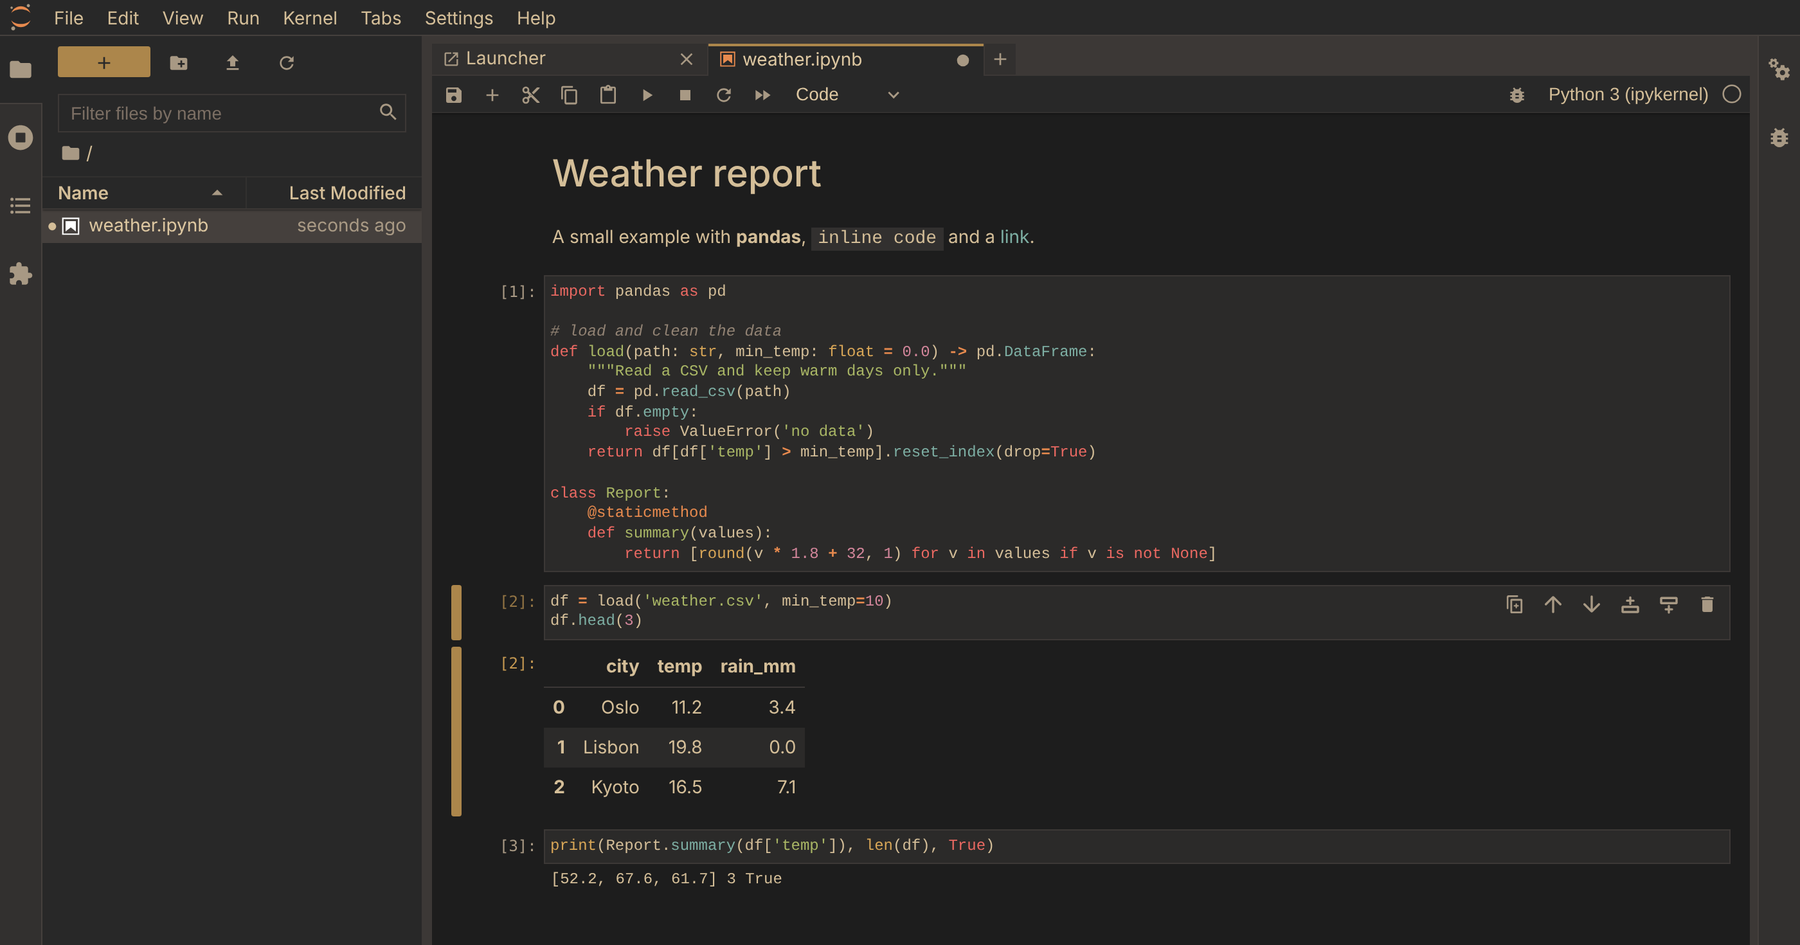
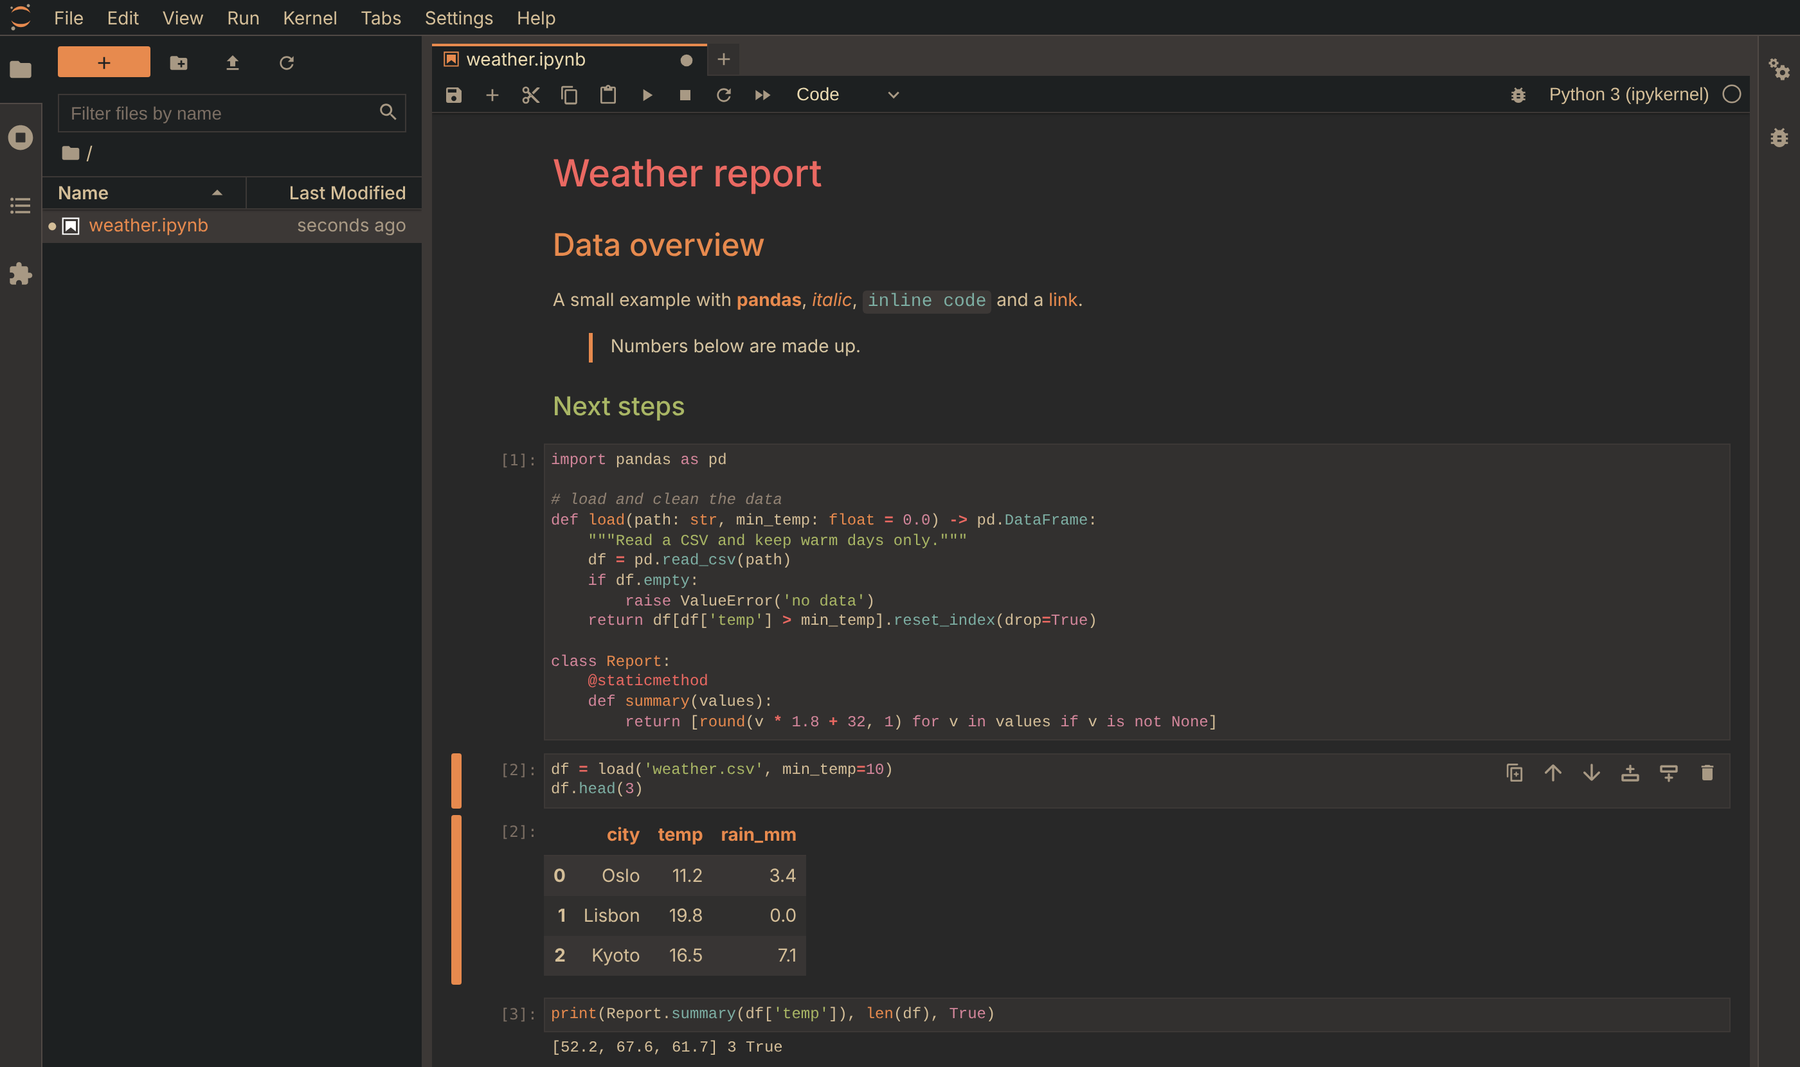
Restyle colors after the Material Gruvbox look (v1.1.0)
- Orange accent for active cell, tabs, buttons and links
- Colored markdown headings (red, orange, green, aqua, blue, purple)
- Orange bold/italic, blue inline code, orange quote bar
- Notebook on #282828 with darker #1d2021 side panels
- Syntax: purple keywords and numbers, orange functions, green strings,
  red operators, blue properties
- Red-tinted text selection, striped tables
- New screenshot

diff --git a/style/material.css b/style/material.css
@@ -1,6 +1,7 @@
 
 /*-----------------------------------------------------------------------------
-| Gruvbox Material colors (dark, medium) — softer contrast, muted accents.
+| Gruvbox Material colors (dark) — palette and accents in the spirit of
+| the Material Gruvbox look: orange accent, colored headings, dark side panels.
 |----------------------------------------------------------------------------*/
 :root {
   --gd-red2: #ea6962;
@@ -35,80 +36,122 @@
   --gd-gray: #a89984;
   --gd-gray-dark: #7c6f64;
 
-  /* backgrounds: less depth difference, no near-black */
-  --jp-layout-color0: #1d1d1d;
-  --jp-layout-color1: #282828;
+  /* backgrounds: notebook #282828, side panels a step darker */
+  --jp-layout-color0: #282828;
+  --jp-layout-color1: #1d2021;
   --jp-layout-color2: #32302f;
   --jp-layout-color3: #3c3836;
-  --jp-layout-color4: #45403d;
-  --jp-layout-color5: #5a524c;
+  --jp-layout-color4: #504945;
+  --jp-layout-color5: #665c54;
   --jp-layout-color6: #7c6f64;
 
-  /* text: warm beige instead of bright cream */
-  --jp-inverse-layout-color0: #ddc7a1;
+  /* text */
+  --jp-inverse-layout-color0: #ebdbb2;
   --jp-inverse-layout-color1: #d4be98;
-  --jp-inverse-layout-color2: #c5b18f;
+  --jp-inverse-layout-color2: #d5c4a1;
   --jp-inverse-layout-color3: #a89984;
   --jp-inverse-layout-color4: #928374;
   --jp-inverse-layout-color5: #7c6f64;
 
-  --jp-border-color0: #45403d;
+  --jp-border-color0: #504945;
   --jp-border-color1: #3c3836;
-  --jp-border-color2: #32302f;
-  --jp-border-color3: #282828;
+  --jp-border-color2: #3c3836;
+  --jp-border-color3: #32302f;
 
-  --jp-cell-editor-background: #2b2a29;
-  --jp-cell-editor-active-background: #2b2a29;
+  /* orange accent: active cell, tabs, buttons, focus */
+  --jp-brand-color0: #c35e0a;
+  --jp-brand-color1: #e78a4e;
+  --jp-brand-color2: #b77244;
+  --jp-brand-color3: #9b633f;
+  --jp-accent-color0: #a9b665;
+  --jp-accent-color1: #a9b665;
+  --jp-accent-color2: #899256;
+  --jp-accent-color3: #757d4d;
+
+  --jp-cell-editor-background: #32302f;
+  --jp-cell-editor-active-background: #32302f;
   --jp-cell-editor-border-color: #3c3836;
   --jp-cell-editor-box-shadow: none;
-  --jp-cell-editor-active-border-color: #5a524c;
+  --jp-cell-editor-active-border-color: #665c54;
+  --jp-cell-prompt-not-active-font-color: #7c6f64;
+  --jp-cell-inprompt-font-color: #7c6f64;
+  --jp-cell-outprompt-font-color: #7c6f64;
 
-  --jp-notebook-select-background: #32302f;
-  --jp-rendermime-error-background: #2f2523;
-  --jp-rendermime-table-row-background: #2b2a29;
-  --jp-rendermime-table-row-hover-background: rgba(216, 166, 87, 0.12);
-  --jp-input-active-background: #1d1d1d;
+  --jp-notebook-select-background: #3c3836;
+  --jp-rendermime-error-background: #3a2a28;
+  --jp-rendermime-table-row-background: rgba(80, 73, 69, 0.2);
+  --jp-rendermime-table-row-hover-background: #504945;
+  --jp-input-active-background: #1d2021;
   --jp-dialog-background: rgba(0, 0, 0, 0.5);
 
-  --jp-editor-selected-background: #3c3836;
-  --jp-editor-selected-focused-background: #45403d;
+  --jp-editor-selected-background: rgba(234, 105, 98, 0.25);
+  --jp-editor-selected-focused-background: rgba(234, 105, 98, 0.4);
   --jp-editor-cursor-color: #d4be98;
 
-  /* syntax, close to gruvbox-material */
-  --jp-mirror-editor-keyword-color: #ea6962;
+  /* syntax */
+  --jp-mirror-editor-keyword-color: #d3869b;
   --jp-mirror-editor-atom-color: #d3869b;
   --jp-mirror-editor-number-color: #d3869b;
-  --jp-mirror-editor-def-color: #a9b665;
+  --jp-mirror-editor-def-color: #e78a4e;
   --jp-mirror-editor-variable-color: #d4be98;
   --jp-mirror-editor-variable-2-color: #7daea3;
-  --jp-mirror-editor-variable-3-color: #d8a657;
-  --jp-mirror-editor-punctuation-color: #d4be98;
+  --jp-mirror-editor-variable-3-color: #7daea3;
+  --jp-mirror-editor-punctuation-color: #a89984;
   --jp-mirror-editor-property-color: #7daea3;
-  --jp-mirror-editor-operator-color: #e78a4e;
+  --jp-mirror-editor-operator-color: #ea6962;
   --jp-mirror-editor-comment-color: #928374;
   --jp-mirror-editor-string-color: #a9b665;
   --jp-mirror-editor-string-2-color: #89b482;
-  --jp-mirror-editor-meta-color: #e78a4e;
-  --jp-mirror-editor-qualifier-color: #d8a657;
-  --jp-mirror-editor-builtin-color: #d8a657;
+  --jp-mirror-editor-meta-color: #ea6962;
+  --jp-mirror-editor-qualifier-color: #e78a4e;
+  --jp-mirror-editor-builtin-color: #e78a4e;
   --jp-mirror-editor-bracket-color: #a89984;
-  --jp-mirror-editor-tag-color: #e78a4e;
-  --jp-mirror-editor-attribute-color: #d8a657;
-  --jp-mirror-editor-header-color: #e78a4e;
-  --jp-mirror-editor-quote-color: #928374;
-  --jp-mirror-editor-link-color: #7daea3;
+  --jp-mirror-editor-tag-color: #ea6962;
+  --jp-mirror-editor-attribute-color: #7daea3;
+  --jp-mirror-editor-header-color: #ea6962;
+  --jp-mirror-editor-quote-color: #a89984;
+  --jp-mirror-editor-link-color: #e78a4e;
   --jp-mirror-editor-error-color: #ea6962;
-  --jp-mirror-editor-hr-color: #5a524c;
+  --jp-mirror-editor-hr-color: #504945;
 
-  --jp-content-link-color: #7daea3;
+  --jp-content-link-color: #e78a4e;
   --jp-scrollbar-background-color: #282828;
-  --jp-scrollbar-thumb-color: 90, 82, 76;
+  --jp-scrollbar-thumb-color: 102, 92, 84;
 }
 
 .cm-s-jupyter span.cm-comment { font-style: italic; }
 .cm-s-jupyter span.cm-keyword { font-weight: normal; }
-.cm-s-jupyter .CodeMirror-matchingbracket { color: #d8a657 !important; background: #45403d; }
+.cm-s-jupyter .CodeMirror-matchingbracket { color: #e78a4e !important; background: #504945; }
 
-/* selected file in the file browser: quiet highlight instead of solid yellow */
-.jp-DirListing-item.jp-mod-selected { background: #45403d; color: #ddc7a1; }
+/* rendered markdown: colored headings, orange emphasis, blue inline code */
+.jp-RenderedHTMLCommon h1 { color: #ea6962; }
+.jp-RenderedHTMLCommon h2 { color: #e78a4e; }
+.jp-RenderedHTMLCommon h3 { color: #a9b665; }
+.jp-RenderedHTMLCommon h4 { color: #89b482; }
+.jp-RenderedHTMLCommon h5 { color: #7daea3; }
+.jp-RenderedHTMLCommon h6 { color: #d3869b; }
+.jp-RenderedHTMLCommon strong,
+.jp-RenderedHTMLCommon em { color: #e78a4e; }
+.jp-RenderedHTMLCommon :not(pre) > code {
+  color: #7daea3;
+  background-color: #3c3836;
+  border-radius: 3px;
+  padding: 1px 4px;
+}
+.jp-RenderedHTMLCommon pre { background-color: #3c3836; }
+.jp-RenderedHTMLCommon blockquote {
+  border-left: 3px solid #e78a4e;
+  color: #d5c4a1;
+  background: transparent;
+}
+.jp-RenderedHTMLCommon mark { background: #e78a4e; color: #1d2021; }
+.jp-RenderedHTMLCommon tbody tr:nth-child(odd) { background: rgba(80, 73, 69, 0.4); }
+.jp-RenderedHTMLCommon tbody tr:nth-child(even) { background: rgba(80, 73, 69, 0.2); }
+.jp-RenderedHTMLCommon tbody tr:hover { background: #504945; }
+.jp-RenderedHTMLCommon thead th { color: #e78a4e; }
+.jp-Notebook ::selection,
+.jp-RenderedHTMLCommon ::selection { background: rgba(234, 105, 98, 0.45); }
+
+/* selected file in the file browser: quiet highlight with an orange name */
+.jp-DirListing-item.jp-mod-selected { background: #3c3836; color: #e78a4e; }
 .jp-DirListing-item.jp-mod-selected .jp-DirListing-itemModified { color: #a89984; }

diff --git a/README.md b/README.md
@@ -1,9 +1,9 @@
 # jupyterlab_gruvbox_material
 
-Gruvbox Material (dark, medium) theme for JupyterLab 3.
+Gruvbox Material (dark) theme for JupyterLab 3.
 
-A softer, lower-contrast take on gruvbox: warm beige text instead of bright cream,
-muted accents and a calmer background, in the Gruvbox Material palette.
+A soft, low-contrast gruvbox look: warm beige text, an orange accent, colored
+headings and darker side panels, in the Gruvbox Material palette.
 
 ![Gruvbox Material theme in JupyterLab](docs/screenshot.png)
 
